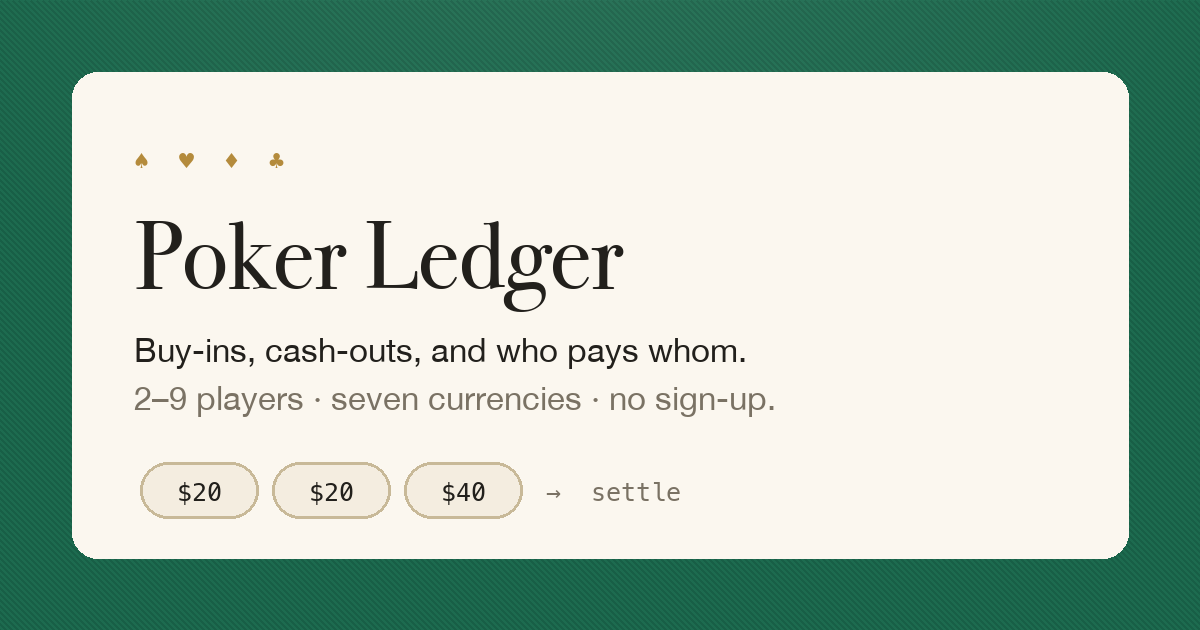
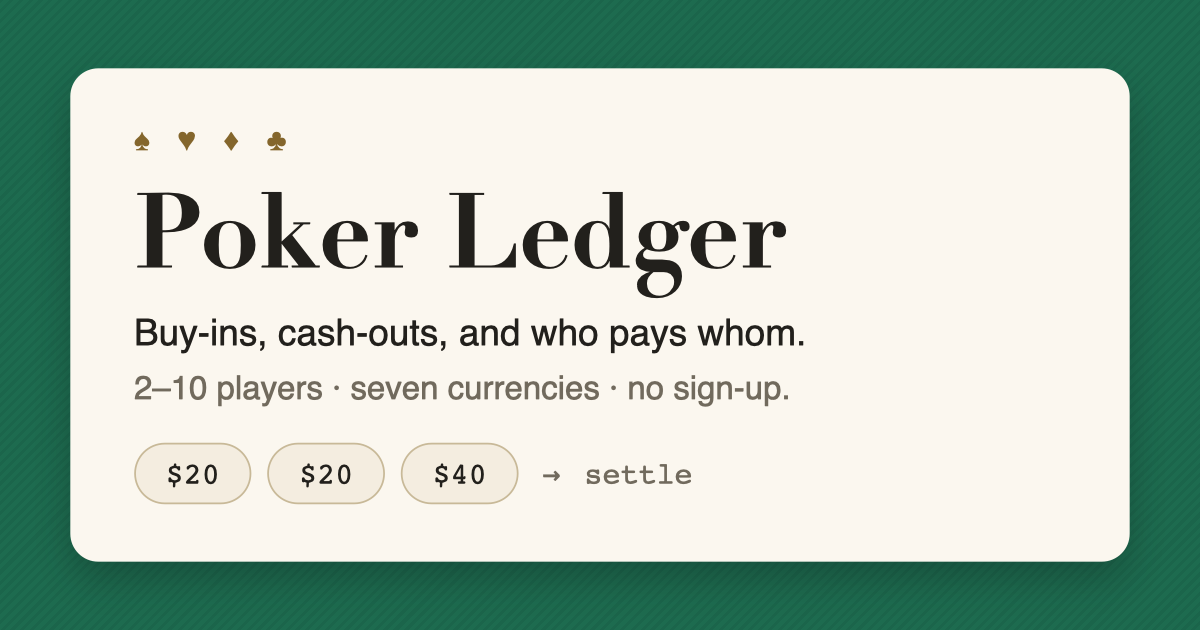
Mirror the social-card fix
Same change as the deploy repo: og.png said "2-9 players" while MAX_PLAYERS is 10.
Adds scripts/og-card.html as the card's source so the claim is text rather than
pixels, and a site-metadata.js assertion tying it to MAX_PLAYERS.

diff --git a/scripts/og-card.html b/scripts/og-card.html
@@ -1,0 +1,54 @@
+<!-- Source of og.png — the Open Graph / Twitter card.
+     THE POINT OF THIS FILE: og.png used to be a hand-made binary with no source, so
+     when MAX_PLAYERS went from 9 to 10 the card kept advertising "2-9 players" and
+     nothing could catch it — a claim inside a PNG cannot be grepped or tested.
+     The copy now lives here in text, and test/cases/site-metadata.js asserts the
+     player count stated below matches MAX_PLAYERS in index.html.
+
+     Regenerate (macOS, no image libraries needed — Quick Look renders with WebKit):
+       qlmanage -t -s 1200 -o /tmp/ogout scripts/og-card.html
+       sips -c 630 1200 /tmp/ogout/og-card.html.png --out og.png
+
+     The page is deliberately SQUARE with the card centred, and sized in vw rather
+     than px: Quick Look picks its own viewport width and always emits a square, so
+     a square page plus sips' centre crop lands on exactly 1200x630 either way.
+     Fonts load from the live site so the card matches the real typography. -->
+<!DOCTYPE html><html><head><meta charset="utf-8">
+<style>
+@font-face{font-family:'Bodoni Moda';src:url('https://homepokerledger.com/fonts/bodoni-700-latin.woff2') format('woff2');font-weight:700;font-display:block}
+@font-face{font-family:'Plex Sans';src:url('https://homepokerledger.com/fonts/plex-sans-400-latin.woff2') format('woff2');font-weight:400;font-display:block}
+@font-face{font-family:'Plex Mono';src:url('https://homepokerledger.com/fonts/plex-mono-500-latin.woff2') format('woff2');font-weight:500;font-display:block}
+*{margin:0;padding:0;box-sizing:border-box}
+/* Page is SQUARE with the card centred, because the Quick Look renderer always
+   emits a square. A centre crop of the square then yields exactly the card. */
+html{width:100vw}
+body{width:100vw;aspect-ratio:1/1;overflow:hidden;background:#fff;
+  display:flex;align-items:center;justify-content:center}
+/* Aspect-locked to 1200x630 so whatever viewport width the renderer picks,
+   scaling the result to 1200 wide lands on exactly 630 tall. */
+.bg{width:100vw;aspect-ratio:1200/630;background:#1d6b4f;
+  background-image:repeating-linear-gradient(135deg,rgba(0,0,0,.055) 0 .25vw,transparent .25vw .58vw);
+  display:flex;align-items:center;justify-content:center}
+.card{width:88.33%;height:77.8%;background:#fbf7ef;border-radius:2.33vw;
+  padding:0 5.33vw;display:flex;flex-direction:column;justify-content:center;
+  box-shadow:0 1.5vw 3.7vw rgba(10,26,20,.30)}
+.suits{font-size:2.5vw;color:#84662c;letter-spacing:.34em;margin-bottom:2.17vw;line-height:1}
+h1{font-family:'Bodoni Moda',Didot,Georgia,serif;font-weight:700;font-size:8.667vw;
+  color:#22201c;line-height:1;letter-spacing:-.005em;margin-bottom:2.17vw}
+.tag{font-family:'Plex Sans',Helvetica,Arial,sans-serif;font-size:3.083vw;color:#22201c;margin-bottom:1vw;line-height:1.25}
+.sub{font-family:'Plex Sans',Helvetica,Arial,sans-serif;font-size:2.75vw;color:#716a5d;margin-bottom:2.83vw;line-height:1.25}
+.chips{display:flex;align-items:center;gap:1.33vw;font-family:'Plex Mono',Consolas,monospace;font-size:2.5vw}
+.chip{background:#f4ede0;border:.167vw solid #c8b998;border-radius:99vw;padding:1vw 2.5vw;color:#22201c}
+.arrow,.settle{color:#716a5d}
+.arrow{margin:0 .67vw}
+</style></head><body>
+<div class="bg"><div class="card">
+  <div class="suits">&spades; &hearts; &diams; &clubs;</div>
+  <h1>Poker Ledger</h1>
+  <div class="tag">Buy-ins, cash-outs, and who pays whom.</div>
+  <div class="sub">2&ndash;10 players &middot; seven currencies &middot; no sign-up.</div>
+  <div class="chips">
+    <span class="chip">$20</span><span class="chip">$20</span><span class="chip">$40</span>
+    <span class="arrow">&rarr;</span><span class="settle">settle</span>
+  </div>
+</div></div></body></html>

diff --git a/test/cases/site-metadata.js b/test/cases/site-metadata.js
@@ -18,6 +18,20 @@ eq("og:image sits under the site",
    (head.match(/<meta property="og:image" content="([^"]+)"/) || [])[1], SITE + "og.png");
 eq("twitter:image matches og:image",
    (head.match(/<meta name="twitter:image" content="([^"]+)"/) || [])[1], SITE + "og.png");
+
+/* The social card is the first thing anyone sees of this site — it is what Hacker News,
+   Reddit, Slack and KakaoTalk render when the link is shared. It used to be a hand-made
+   PNG with no source, so when the table grew from nine seats to ten the card went on
+   advertising "2-9 players" and no test could see it: the claim was pixels.
+   scripts/og-card.html is now the source, so the claim is text and can be checked. */
+log("-- the social card does not lie about the table --");
+var cardMax = ogCard.match(/2&ndash;(\d+) players/);
+eq("the card states a player maximum", !!cardMax, true);
+var codeMax = html.match(/MAX_PLAYERS\s*=\s*(\d+)/);
+eq("index.html declares MAX_PLAYERS", !!codeMax, true);
+eq("the card's player maximum is the real one",
+   cardMax && cardMax[1], codeMax && codeMax[1]);
+eq("the card names the site, not a stale brand", ogCard.indexOf("Poker Ledger") !== -1, true);
 eq("sitemap lists the canonical URL", sitemap.indexOf("<loc>" + SITE + "</loc>") !== -1, true);
 eq("every sitemap URL sits under the canonical site",
    (sitemap.match(/<loc>([^<]+)<\/loc>/g) || []).filter(function(l){

diff --git a/test/build.py b/test/build.py
@@ -148,6 +148,7 @@ def build():
         "var hasOfl = %s;" % ("true" if os.path.exists(os.path.join(ROOT, "fonts", "OFL.txt")) else "false"),
         "var css = %s;" % js_string(read("site.css")),
         "var consentJs = %s;" % js_string(read("consent.js")),
+        "var ogCard = %s;" % js_string(read("scripts/og-card.html")),
         "var koHtml = %s;" % js_string(read("ko/index.html")),
         "var koTemplate = %s;" % js_string(read("ko/app.html")),
         "var rssEn = %s;" % js_string(read("rss.xml")),
